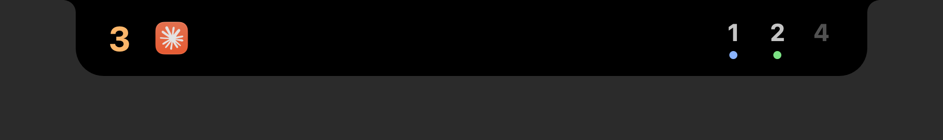
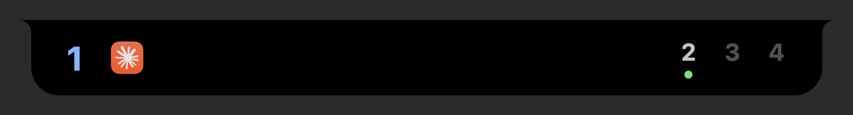
README: las tres pestañas, permisos y capturas nuevas
- «Qué hace», «Cómo se usa» y «Ajustes» cuentan las pestañas Escritorios, Utilidades y Desarrollador, los atajos para cambiar de pestaña, la bandeja y los permisos.
- «Si algo no va bien» explica el JSON cortado de `yabai -m query` y el aviso «Sin soporte en macOS».
- Capturas nuevas de la isla cerrada, las tres pestañas y los ajustes; se quita la de la isla abierta de antes.

diff --git a/README.md b/README.md
@@ -1,26 +1,53 @@
 # YabaiBar
 
-> **English summary.** YabaiBar turns the MacBook notch into a Dynamic Island for your [yabai](https://github.com/asmvik/yabai) spaces: see your desktops and their apps, jump to one with a click, control what's playing and run a Pomodoro. It works on any MacBook with a notch (MacBook Pro from 2021, MacBook Air from 2022) and needs yabai installed. Install it with `brew install --cask jerickgm89/tap/yabaibar`. It isn't notarized: the first time, go to System Settings › Privacy & Security › Open Anyway. The rest of this README is in Spanish.
+> **English summary.** YabaiBar turns the MacBook notch into a Dynamic Island for your [yabai](https://github.com/asmvik/yabai) spaces: see your desktops and their apps, jump to one with a click, and control yabai from the island. Open it and you get three tabs: Desktops, Utilities (music, Pomodoro, calendar, clipboard tools, a file tray) and Developer (system monitor, ports, Docker, Claude Code, Git and GitHub, terminal notices). It works on any MacBook with a notch (MacBook Pro from 2021, MacBook Air from 2022) and needs yabai installed. Install it with `brew install --cask jerickgm89/tap/yabaibar`. It isn't notarized: the first time, go to System Settings › Privacy & Security › Open Anyway. The rest of this README is in Spanish.
 
-Una isla alrededor del notch del Mac que muestra tus escritorios de [yabai](https://github.com/asmvik/yabai) con los íconos de sus apps. Ábrela para saltar a cualquier escritorio, controlar la música o empezar un Pomodoro. Su diseño se inspira en [Atoll](https://github.com/Ebullioscopic/Atoll) (ver [Agradecimientos](#agradecimientos)).
+Una isla alrededor del notch del Mac que muestra tus escritorios de [yabai](https://github.com/asmvik/yabai) con los íconos de sus apps. Ábrela para saltar a cualquier escritorio, controlar yabai, la música o un Pomodoro, y para tener a mano tu calendario, el portapapeles, una bandeja de archivos y el estado de tus herramientas de desarrollo. Su diseño se inspira en [Atoll](https://github.com/Ebullioscopic/Atoll) (ver [Agradecimientos](#agradecimientos)).
 
 <p align="center">
-  <img src="assets/isla-cerrada.png" width="640" alt="La isla cerrada: el espacio 3 activo con su app a la izquierda del notch y los espacios 1, 2 y 4 a la derecha">
+  <img src="assets/isla-cerrada.png" width="640" alt="La isla cerrada: el espacio 1 activo con su app a la izquierda del notch y los espacios 2, 3 y 4 a la derecha">
 </p>
 
 <p align="center">
-  <img src="assets/isla-abierta.png" width="820" alt="La isla abierta: una tarjeta por espacio con su número, sus apps y su atajo, con el puntero sobre la tarjeta 1">
+  <img src="assets/isla-escritorios.png" width="820" alt="La pestaña Escritorios: una tarjeta por escritorio con sus apps y su atajo, y debajo el panel de yabai con las ventanas del escritorio activo, la distribución y los botones de la ventana enfocada">
+  <br><sub><b>Escritorios:</b> tus tarjetas y el panel de yabai</sub>
+</p>
+
+<p align="center">
+  <img src="assets/isla-utilidades.png" width="820" alt="La pestaña Utilidades: el Pomodoro, el calendario con la tira de 7 días, el portapapeles con su historial y la bandeja de archivos">
+  <br><sub><b>Utilidades:</b> música y Pomodoro, calendario, portapapeles y bandeja</sub>
+</p>
+
+<p align="center">
+  <img src="assets/isla-desarrollador.png" width="820" alt="La pestaña Desarrollador: el monitor del sistema, los puertos, Docker, Git, Claude Code y los avisos">
+  <br><sub><b>Desarrollador:</b> sistema, puertos, Docker, Git, Claude Code y avisos</sub>
 </p>
 
 ## Qué hace
 
-- **Tus escritorios, siempre a la vista:** el activo a la izquierda del notch, con sus apps, y los demás a la derecha.
-- **Un clic para cambiar de escritorio:** abre la isla y pulsa la tarjeta del escritorio al que quieres ir. macOS usa su propia animación.
+Con la isla cerrada, siempre a la vista: el escritorio activo a la izquierda del notch, con sus apps, y los demás a la derecha. Al abrirla tiene **tres pestañas**:
+
+- **Escritorios:** una tarjeta por escritorio. Un clic en una tarjeta cambia de escritorio (macOS usa su propia animación). Debajo, un **panel de yabai** con las ventanas del escritorio activo y los botones para ordenarlas: distribución (mosaico, pila o flotante), equilibrar, girar, voltear, modo presentación, hacer principal una ventana, «esta app, siempre flotante»… Arrastra una ventana a otra tarjeta para moverla.
+- **Utilidades:**
+  - **Música:** lo que suena, con sus botones, en TIDAL o en cualquier app del «Ahora suena» de macOS.
+  - **Pomodoro:** foco y descansos, con un anillo de progreso y sonidos suaves al terminar cada fase.
+  - **Calendario:** tus próximos eventos, con «Unirse» a las videollamadas.
+  - **Portapapeles:** herramientas (JSON, base64, JWT, SHA-256…), un cuentagotas de color y, si lo activas, el historial.
+  - **Bandeja:** suelta archivos sobre la isla y llévalos a otra app.
+- **Desarrollador:**
+  - **Sistema:** CPU, memoria y los procesos que más gastan.
+  - **Puertos y Docker:** los servidores locales y los contenedores, para abrirlos, copiar su URL, cerrarlos o pararlos.
+  - **Claude Code:** tus sesiones abiertas, y un aviso cuando una te hace una pregunta.
+  - **Git y GitHub:** el estado de tus repositorios y el CI de tu último push.
+  - **Avisos:** los de la terminal (un comando largo que termina), Claude Code y Git, y los 10 últimos guardados.
+
+Y, en general:
+
 - **Atajos automáticos:** cuando creas un escritorio, YabaiBar te ofrece añadirle su atajo para que el clic funcione.
-- **Música:** lo que suena, con sus botones, en TIDAL o en cualquier app del «Ahora suena» de macOS.
-- **Pomodoro:** foco y descansos, con un anillo de progreso y sonidos suaves al terminar cada fase.
-- **Avisos:** el cargador y la batería baja, y un botón para que el Mac no se duerma.
+- **Avisos en la isla cerrada:** el cargador y la batería baja, una canción nueva, el Pomodoro, el calendario y lo que pase en la pestaña Desarrollador. Un punto en la píldora de una pestaña avisa de una novedad.
+- **Mantener el Mac despierto,** con un botón (una taza).
 - **Se aparta cuando estorba:** se oculta en Mission Control y se recoge en las apps a pantalla completa.
+- **Ligera con la isla cerrada:** el monitor del sistema, los puertos, Docker y el panel de yabai solo se miran con su pestaña a la vista. Lo demás se entera por eventos.
 
 ## Requisitos
 
@@ -32,7 +59,7 @@ Una isla alrededor del notch del Mac que muestra tus escritorios de [yabai](http
   yabai --start-service
   ```
 
-  No hace falta la scripting addition ni desactivar SIP: solo unas pocas acciones opcionales del panel de yabai (fijar una ventana, crear, quitar y mover escritorios, cambiar de escritorio al instante) la usan, y sin ella se ven atenuadas.
+  No hace falta la scripting addition ni desactivar SIP: solo unas pocas acciones opcionales del panel de yabai (fijar una ventana, crear, quitar y mover escritorios, cambiar de escritorio al instante) la usan, y sin ella se ven atenuadas. Ojo: la scripting addition de yabai no soporta todas las versiones de macOS (ver «Escritorios: el panel de yabai» más abajo).
 
 ## Instalación
 
@@ -56,11 +83,15 @@ Para actualizarla: `brew upgrade --cask yabaibar`.
 | Para | Haz esto |
 | --- | --- |
 | Abrir la isla | Pasa el puntero por el notch, desliza 3 o 4 dedos hacia abajo en el trackpad o pulsa ⌥I |
+| Cambiar de pestaña | Las tres píldoras de la esquina izquierda, o ⌥← y ⌥→. Si abriste la isla con ⌥I o el gesto, también h (anterior) y l (siguiente), como en vim |
 | Ir a un escritorio | Clic en su tarjeta |
-| Cambiar de canción | Los botones de la franja de música, o dos dedos de lado sobre ella |
-| Empezar o pausar un Pomodoro | El reloj de la esquina izquierda, o ⌥P desde cualquier app |
-| Mantener el Mac despierto | La taza, junto al reloj del Pomodoro |
+| Mover una ventana a otro escritorio | En la pestaña Escritorios, arrastra su botón del panel a la tarjeta del escritorio |
+| Cambiar de canción | Los botones de la franja de música (en Utilidades), o dos dedos de lado sobre ella |
+| Empezar o pausar un Pomodoro | Su botón en Utilidades, o ⌥P desde cualquier app |
+| Guardar un archivo en la bandeja | Arrástralo sobre la isla, cerrada o abierta. Para sacarlo, arrástralo desde la bandeja a otra app |
+| Mantener el Mac despierto | La taza, a la derecha de la isla abierta, junto al engranaje |
 | Abrir los ajustes | El engranaje de la esquina derecha |
+| Cerrar la isla | Esc (si la abriste con ⌥I o el gesto), o un clic en otra app |
 | Ver el menú | Clic derecho en la isla, o un clic fuera de las tarjetas |
 
 **Para que el clic cambie de escritorio** hacen falta dos cosas, y «Primeros pasos» las revisa:
@@ -69,6 +100,13 @@ Para actualizarla: `brew upgrade --cask yabaibar`.
 - **El permiso de Accesibilidad.** macOS lo pide la primera vez que pulsas una tarjeta.
 
 **Para el gesto de 3 o 4 dedos,** App Exposé tiene que estar desactivado en Ajustes › Trackpad › Más gestos, porque usa el mismo movimiento.
+
+**Permisos:** YabaiBar solo pide lo que necesita, y casi todo cuando tú lo activas.
+
+- **Accesibilidad,** para pulsar el atajo del escritorio al que vas.
+- **Calendarios,** solo si pulsas «Dar acceso» en el módulo del calendario. Solo lee.
+- **Pegar desde otras apps,** solo si activas el historial del portapapeles.
+- **Claude Code,** solo si pulsas «Conectar con Claude Code…» en Ajustes. Pide confirmación y guarda una copia de tu `settings.json`.
 
 ## Ajustes
 
@@ -82,7 +120,9 @@ El engranaje de la isla abierta abre los ajustes. Los cambios se aplican al mome
 - **Isla:** una isla en miniatura que cambia al encender o apagar la música, el Pomodoro y la taza, y lo que se ve en la isla cerrada (barras, anillo y avisos).
 - **Música:** de qué app.
 - **Pomodoro:** los tiempos (Clásico 25/5/15, Largo, Corto o los tuyos), si las fases empiezan solas, el objetivo del día, los sonidos y si se baja la música en el aviso.
-- **Escritorios:** las señales de yabai y los atajos de los escritorios nuevos.
+- **Escritorios:** el panel de yabai (y si se cambia de escritorio al instante), el estado de yabai y «Reiniciar yabai…», lo que la app recuerda de cada escritorio, las señales de yabai, los atajos de los escritorios nuevos y la chuleta de tus atajos de skhd.
+- **Utilidades:** el calendario (el permiso, los avisos y qué calendarios se ven) y el portapapeles (el historial y las apps que se ignoran).
+- **Desarrollador:** qué módulos se ven (Docker, Git y GitHub con `gh`), las carpetas de Git que se vigilan y sus avisos, conectar Claude Code y los avisos de la terminal.
 - **Atajos:** el de la isla (⌥I), el del Pomodoro (⌥P) y el gesto del trackpad.
 - **Acerca de:** la versión, tu Mac y su notch, y «Copiar datos» para los issues.
 
@@ -99,7 +139,8 @@ La isla mide el notch de tu pantalla, así que se ajusta a cada modelo y a cualq
 
 **Si algo no va bien:**
 
-- **La isla dice «YB ⚠»:** yabai no responde. Arráncalo con `yabai --start-service`.
+- **La isla dice «YB ⚠»:** yabai no responde. Arráncalo con `yabai --start-service`. Si está en marcha pero `yabai -m query --spaces` devuelve algo cortado (solo `[`), reinícialo con `yabai --restart-service` (o «Reiniciar yabai…» en el menú de la isla).
+- **Crear, quitar o mover un escritorio no hace nada:** la scripting addition de yabai no soporta tu versión de macOS. YabaiBar lo avisa con «Sin soporte en macOS …» y atenúa esos botones. Mission Control sigue sirviendo para eso.
 - **El clic no cambia de escritorio:** abre «Primeros pasos». Si el permiso de Accesibilidad ya está marcado, quita YabaiBar de la lista con «−» y vuelve a pulsar una tarjeta.
 - **Algo se ve descolocado en tu Mac:** abre un [issue](https://github.com/jerickgm89/yabaiDynamicIsland/issues) y pega lo que copia «Primeros pasos» › «Copiar datos».
 
@@ -172,7 +213,7 @@ El historial está apagado hasta que lo enciendes (el botón «Activar el histor
 
 Debajo de las tarjetas de la pestaña Escritorios hay un panel con las ventanas del escritorio activo y los botones de yabai. **Ventanas:** un clic enfoca una; arrastrarla a la tarjeta de otro escritorio la mueve. **Distribución:** mosaico, pila o flotante, equilibrar, girar, voltear y modo presentación (sin márgenes ni huecos). **Ventana enfocada:** flotante o mosaico, zoom, cambiar la división, hacerla principal, «esta app, siempre flotante», en todos los escritorios y siempre encima. **Escritorio:** nuevo, quitar (con confirmación) y mover. Cada tarjeta lleva un ícono con su distribución.
 
-Fijar, siempre encima, crear, quitar y mover escritorios y cambiar al instante necesitan la **scripting addition** de yabai (`sudo yabai --load-sa`, que haces tú; YabaiBar nunca la carga): sin ella, esos botones se ven atenuados y dicen cómo cargarla. YabaiBar recuerda la distribución que eliges para cada escritorio y las apps siempre flotantes, y las vuelve a poner cuando yabai se reinicia. En Ajustes › Escritorios: el estado de yabai, «Reiniciar yabai…» (con confirmación), lo recordado y la chuleta de tus atajos de skhd (solo lectura). Con la pestaña cerrada, el panel no consulta nada a yabai.
+Fijar, siempre encima, crear, quitar y mover escritorios y cambiar al instante necesitan la **scripting addition** de yabai (`sudo yabai --load-sa`, que haces tú; YabaiBar nunca la carga): sin ella, esos botones se ven atenuados y dicen cómo cargarla. Ojo: la scripting addition de yabai solo funciona con las versiones de macOS que soporta; si no es la tuya, crear, quitar y mover escritorios no hacen nada aunque esté cargada, y YabaiBar lo detecta tras pulsar el botón («Sin soporte en macOS …») y deja de intentarlo. YabaiBar recuerda la distribución que eliges para cada escritorio y las apps siempre flotantes, y las vuelve a poner cuando yabai se reinicia. En Ajustes › Escritorios: el estado de yabai, «Reiniciar yabai…» (con confirmación), lo recordado y la chuleta de tus atajos de skhd (solo lectura). Con la pestaña cerrada, el panel no consulta nada a yabai.
 
 </details>
 
